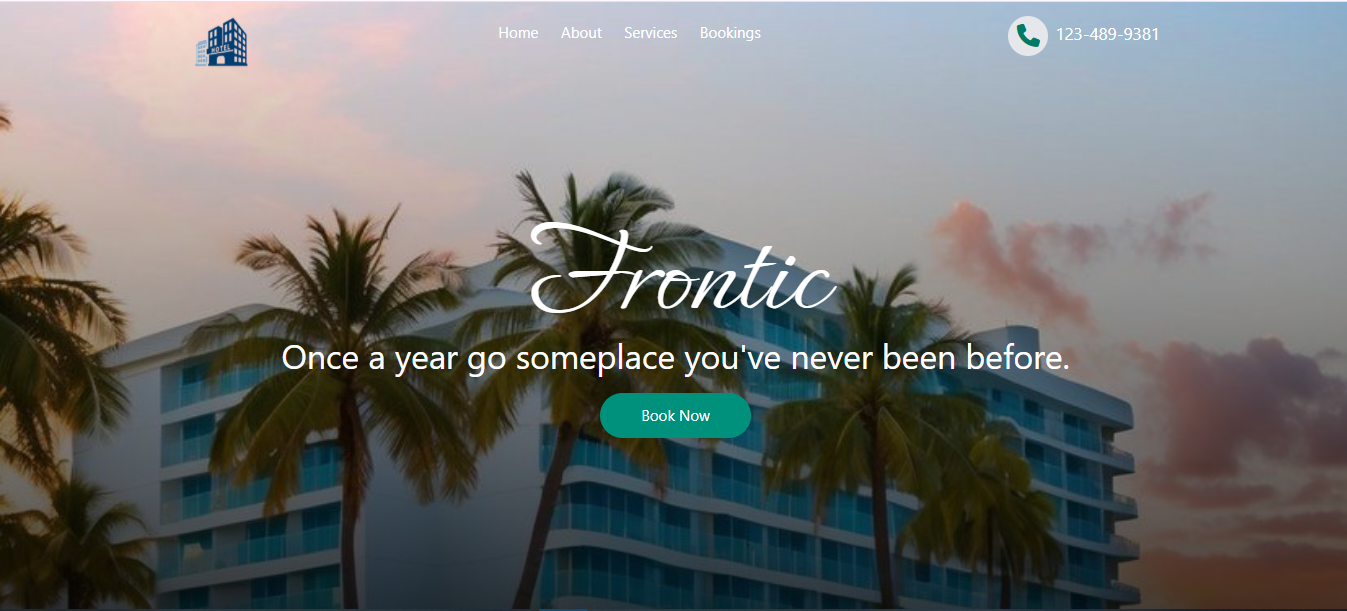
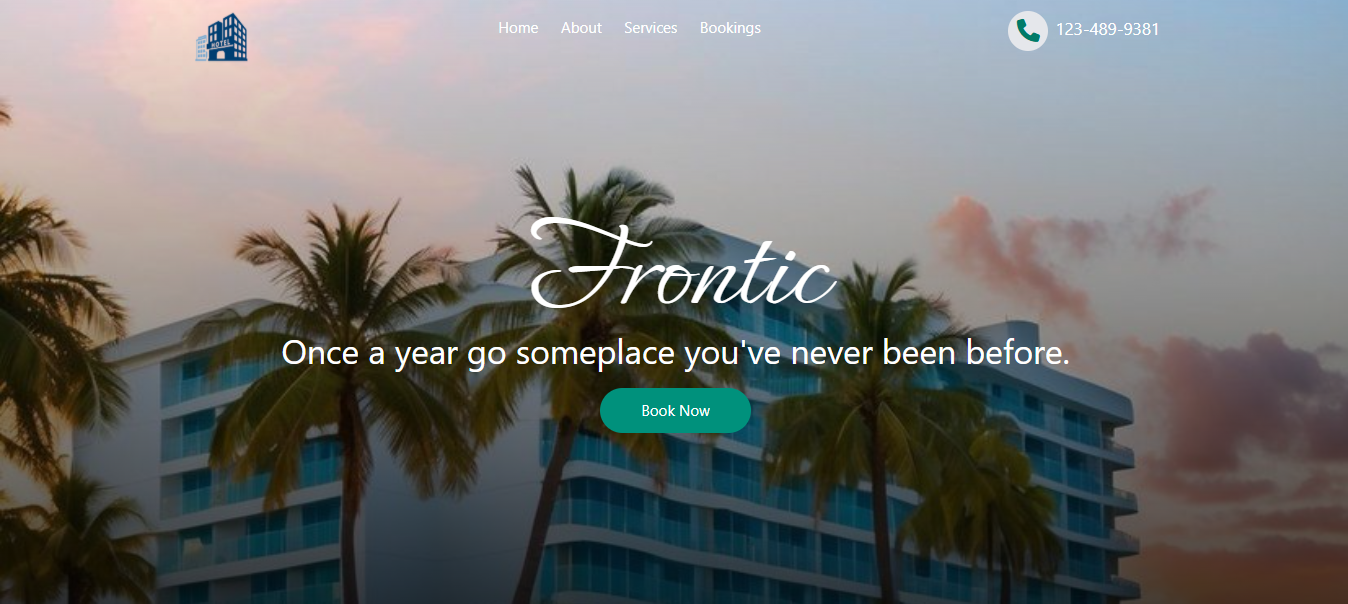
updating frontic image again

diff --git a/index.html b/index.html
@@ -438,7 +438,7 @@
             class="left-side md:w-[40%] lg:w-[50%] relative flex group cursor-pointer rounded-lg"
           >
             <div>
-              <img class="rounded-xl" src="/assets/Frontic.png" alt="Frontic" />
+              <img class="rounded-xl" src="/assets/frontic.png" alt="Frontic" />
             </div>
 
             <!-- blur layer  -->
